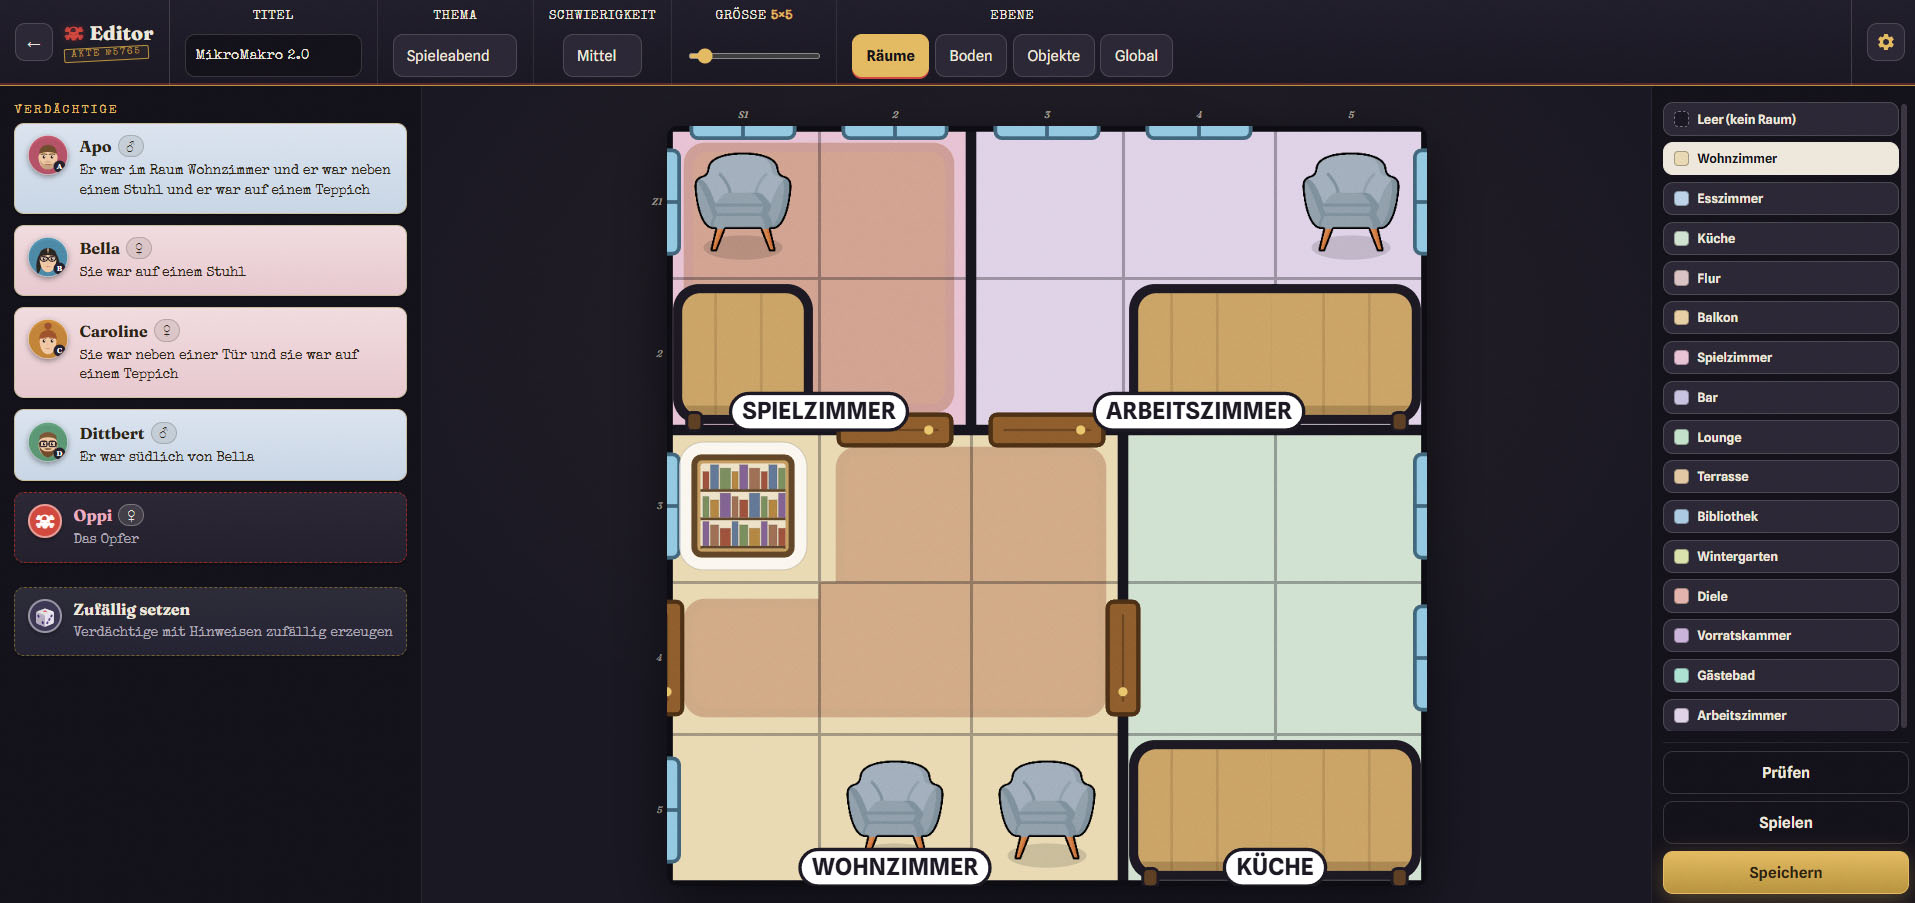
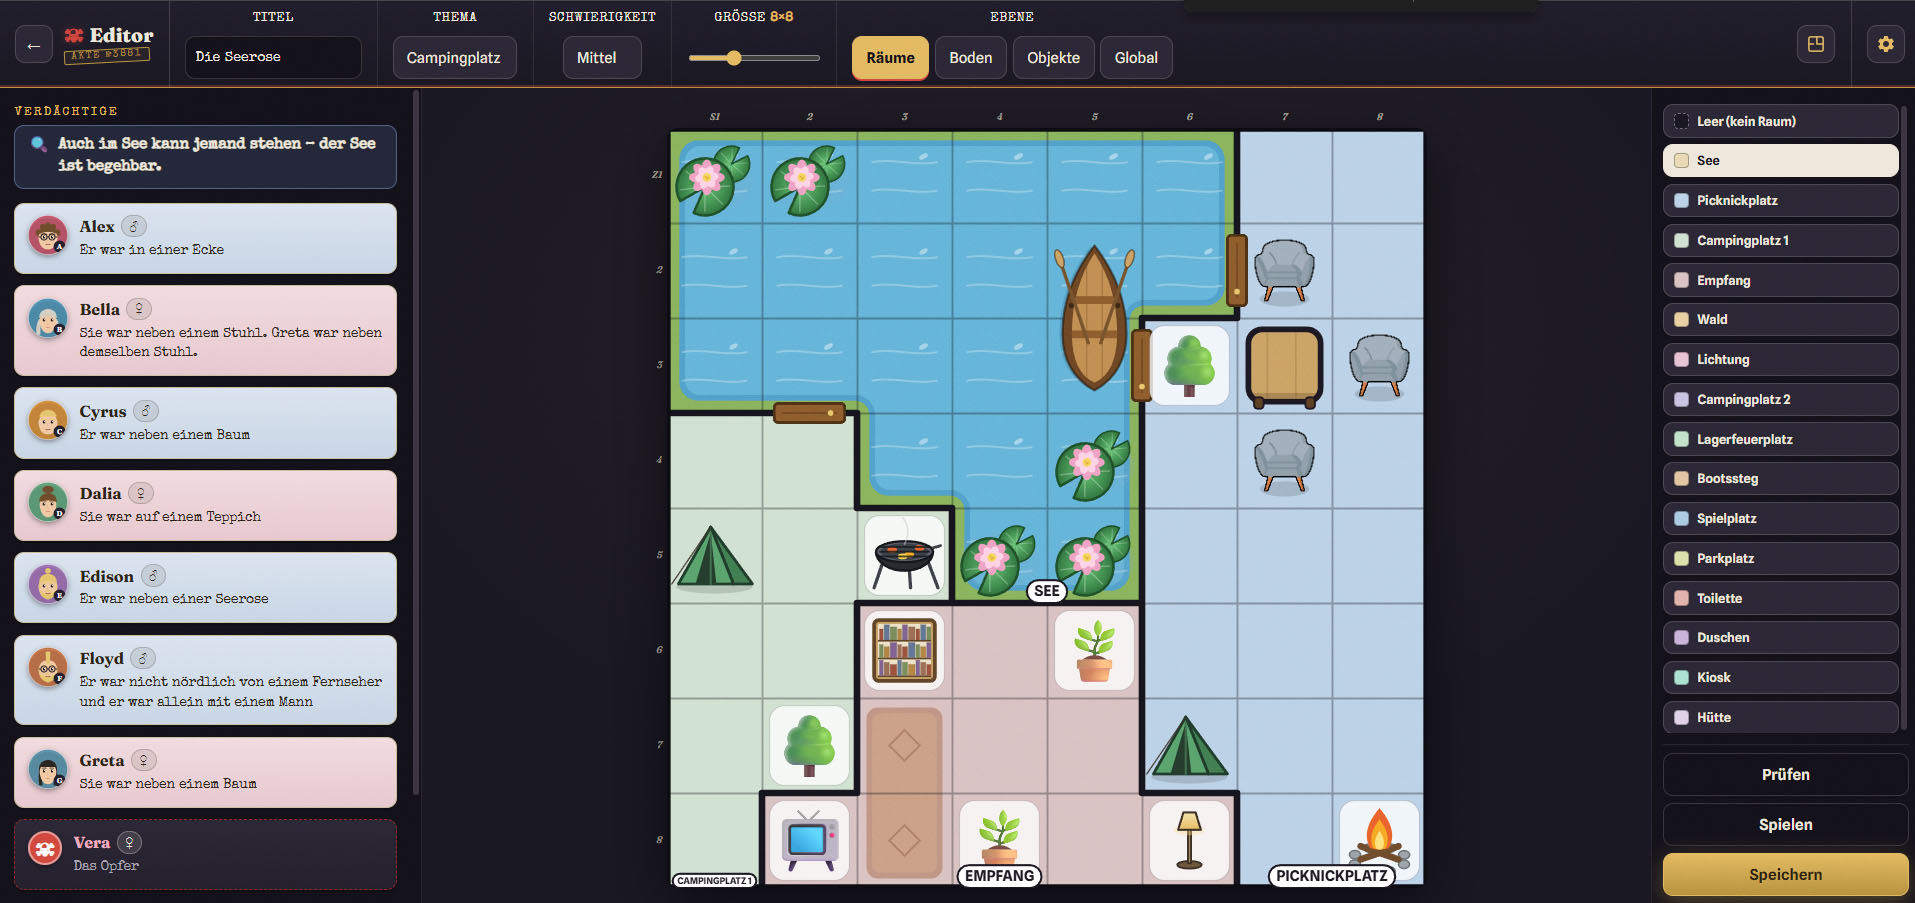
readme and new screenshots

diff --git a/src/game/objectArt.ts b/src/game/objectArt.ts
@@ -1339,12 +1339,21 @@ function lilyFlower(ctx: Ctx, cx: number, cy: number, R: number): void {
  */
 export function drawWaterlily(ctx: Ctx, x: number, y: number, S: number): void {
   ctx.lineJoin = 'round'
+  // Scale the WHOLE plant — pads (leaves), blossom and ripple — to ~80% about the tile
+  // centre, so the entire lily sits smaller and compactly centred on its tile.
+  const cx = x + S * 0.5
+  const cy = y + S * 0.5
+  ctx.save()
+  ctx.translate(cx, cy)
+  ctx.scale(0.8, 0.8)
+  ctx.translate(-cx, -cy)
   // faint ripple of open water under the pads
   ctx.fillStyle = 'rgba(120, 170, 200, 0.16)'
   ctx.beginPath()
-  ctx.ellipse(x + S * 0.5, y + S * 0.56, S * 0.42, S * 0.3, 0, 0, Math.PI * 2)
+  ctx.ellipse(x + S * 0.5, y + S * 0.54, S * 0.42, S * 0.3, 0, 0, Math.PI * 2)
   ctx.fill()
-  lilyPad(ctx, x + S * 0.68, y + S * 0.38, S * 0.19, -0.8) // small pad, upper-right
-  lilyPad(ctx, x + S * 0.4, y + S * 0.62, S * 0.3, 2.3) // large pad, lower-left
-  lilyFlower(ctx, x + S * 0.42, y + S * 0.52, S * 0.17) // blossom on the large pad
+  lilyPad(ctx, x + S * 0.66, y + S * 0.4, S * 0.19, -0.8) // small pad, upper-right
+  lilyPad(ctx, x + S * 0.42, y + S * 0.6, S * 0.3, 2.3) // large pad under the blossom
+  lilyFlower(ctx, x + S * 0.5, y + S * 0.5, S * 0.17) // blossom, centred on the large pad
+  ctx.restore()
 }

diff --git a/docs/index.html b/docs/index.html
@@ -13,7 +13,7 @@
       rel="stylesheet"
     />
     <title>Murdoku — Krimi trifft Sudoku</title>
-    <script type="module" crossorigin src="./assets/index-8z1HUEBl.js"></script>
+    <script type="module" crossorigin src="./assets/index-uu9nEwJ9.js"></script>
     <link rel="stylesheet" crossorigin href="./assets/index-CBYZE48P.css">
   </head>
   <body>

diff --git a/README.md b/README.md
@@ -2,7 +2,7 @@
 
 > *There was a murder last night. A handful of suspects, one victim, a floor plan full of clues — and only one arrangement that truly adds up. Grab your magnifying glass.*
 
-**Murdoku** is a logic mystery for the web: the rigor of Sudoku married to the suspense of a whodunit. Every suspect leaves a clue ("…was sitting on a chair", "…was in the same room as Bryson", "…was **not** beside a wall"). You combine, cross out and place — until every person stands on exactly one tile. Whoever ends up **alone with the victim** in a room is the murderer.
+**Murdoku** is a logic mystery for the web: the rigor of Sudoku married to the suspense of a whodunit. Every suspect leaves a clue — *"…was sitting on a chair", "…was in the same room as Bryson", "…was **not** beside a wall"*. You reason, cross out and place, until every person stands on exactly one tile. Whoever ends up **alone with the victim** in a room is the murderer.
 
 <p align="center">
   <img src="screenshots/murdoku_menu.jpg" width="32%" alt="Start screen: blood-lettered Murdoku title with Open Case, Tutorial, Editor and Generate" />
@@ -18,20 +18,18 @@
 
 ---
 
-## Highlights
+## Why you'll get hooked
 
-- **A guided, interactive tutorial** that teaches the rules by solving a real mini-case with you, step by step.
-- **An automatic case generator** that rolls *endless*, guaranteed-unique mysteries from 10+ themed settings in three difficulties — running in a Web Worker so the interface never stutters.
-- **A full level editor** — paint the floor plan, define suspects, build their clues, verify uniqueness, then play or save your own cases.
-- **48 hand-built bundled cases** spanning a gentle tutorial up through *hard*, on boards from 4×4 to 10×10 — and the generator adds as many more as you like.
-- **A settings desk** behind the gear: language, three assistance levels, a case stopwatch and gender-tinted suspect files.
-- **A noir "case file" look** — dark ink, brass and crimson, a typewriter testimony font, ink stamps, polaroid evidence cards and a faint film-grain over everything.
-- **Fully bilingual** (English & German), switchable at any time, with every clue written out as a natural sentence.
-- **Plays great on desktop and mobile**, with your progress saved locally.
+- 🔎 **Pure deduction, zero luck.** Every case has exactly **one** solution, provable by logic alone — no guessing, ever.
+- ♾️ **An endless supply of mysteries.** A built-in generator rolls fresh, guaranteed-unique cases across **15 themed settings** in three difficulties — you'll never run out.
+- ✍️ **Build your own.** A full editor lets you paint a crime scene, write the clues and verify it's solvable — then play it or save it.
+- 🎓 **Learn by doing.** An interactive, guided tutorial cracks a real mini-case *with* you, one step at a time.
+- 🖼️ **A crime scene with character.** Hand-drawn suspects and **40+ themed props**, dressed in a moody "case-file" look down to the film grain.
+- 📱 **Anywhere, in your language.** Plays beautifully on desktop and phone, in English or German, with your progress saved automatically.
 
 ---
 
-## Hats off to the inventor
+## A tribute to the inventor
 
 The brilliant core idea — fusing Sudoku logic with a murder case — comes from **Manuel Garand**. This project is a loving, freely-interpreted homage to his concept and is not affiliated with him.
 
@@ -47,20 +45,55 @@ The brilliant core idea — fusing Sudoku logic with a murder case — comes fro
 4. **Cross out** anything you can rule out yourself (even across furniture), until only one solution remains.
 5. **Submit.** If everyone stands correctly, the mystery unravels: who was alone with the victim?
 
-Stuck? The **hint giver** explains the next logical step in words — it never hands you the answer, just a nudge in the right direction.
+Stuck? The **hint giver** explains the next logical step in plain words — it never hands you the answer, just a nudge in the right direction.
 
 ---
 
-## What's in the file
+## The clues
 
-- **A whole clue vocabulary** — on/beside an object, beside a window, in a corner, against a wall, in a row/column, alone in the room, "the only person on a chair", "in the same room as X", compass directions, room traits ("nobody with a beard") … all combinable with **AND / OR** and individually negatable with **NOT** — and rendered as clean, grammatical sentences.
-- **Suspects with character** — hand-drawn avatars with gender, beard, glasses, baldness and hair colors. These traits aren't decoration; they're part of the logic.
-- **A lovingly drawn crime scene** — armchairs, bookshelves, beds, cars and tables that **merge seamlessly into large pieces** (rows, L-shapes, 2×2 …), just like the carpets. Windows, walls and pastel rooms included.
-- **Endless new cases** — the built-in **generator** rolls uniquely-solvable levels from 10+ themes (apartment, mansion, hotel, hospital, museum, auto shop …) in three difficulties. It runs in a **Web Worker** so the interface stays smooth.
-- **Build your own cases** — a full **level editor** (see below).
-- **Guided tutorial** — walks you through a real mini-case step by step.
-- **Bilingual** — English & German, switchable anytime.
-- **Desktop & mobile** — responsive layout, touch controls, and your progress is saved locally.
+A whole vocabulary of evidence, every piece rendered as a clean, grammatical sentence:
+
+- **on** or **beside** an object, **beside a window**, **in a corner**, **against a wall**
+- **in a row / column**, **alone in the room**, *"the only person on a chair"*
+- **in the same room as** another suspect, and **compass directions** — *"north of Dana"*
+- **room traits** — *"nobody in the room had a beard"*, *"a woman was in the room"*
+
+…all combinable with **AND / OR** and individually negatable with **NOT**.
+
+Suspects come with **traits that matter** — gender, beard, glasses, baldness and hair color. They aren't decoration; the logic leans on them, and each one has a hand-drawn avatar to match.
+
+---
+
+## The crime scene
+
+Every case is dressed by hand to feel *built*, not random:
+
+- **40+ objects** — armchairs, bookshelves, pianos, fridges, cars, beds, boats, tents, campfires, farm animals, statues and more — chosen to fit each setting. Boats and water lilies drift on the lake, cows fill the barn, fridges line the supermarket aisle, cars wait in the garage.
+- **Pieces that merge** — beds, cars and rowing boats span two tiles and join into one seamless object; carpets and open water tile together into continuous surfaces.
+- **Windows, doors, walls and soft pastel rooms**, with room names that follow the chosen theme.
+
+---
+
+## Endless cases — the generator
+
+Out of files to crack? Roll a new one. The generator builds **uniquely-solvable** mysteries on demand:
+
+- **15 themed settings** — apartment, mansion, hotel, hospital, museum, auto shop, supermarket, farm, school, restaurant, police station, campsite and more — each with fitting rooms and props.
+- **Three difficulties**, on boards from a tight **4×4** up to a sprawling **16×16**.
+- Runs in a **Web Worker**, so the interface never stutters. Keep a case you like, export it as JSON, or simply play and move on.
+
+---
+
+## Build your own crime scene (the editor)
+
+Got your own Murdoku puzzles on paper? Recreate them 1:1:
+
+- Paint **rooms, floor, objects and windows** straight onto the board (4×4 up to 16×16).
+- Create **suspects** (name, traits) and assemble their clues in the flat **clue builder**.
+- **"Check"** tells you whether the case is solvable **and unique** — and who the murderer would be.
+- **"Play"** tests it instantly; **"Save"** files it (with name & difficulty) into your archive or exports it as JSON.
+
+Room names follow the chosen theme — and can be swapped anytime.
 
 ---
 
@@ -77,36 +110,23 @@ Everything is stored locally and applies across the game, picker, generator and 
 
 ---
 
-## A crime scene with atmosphere
+## A case file with atmosphere
 
-Murdoku is dressed as a **noir case file**. Warm near-black "interrogation room" ink, brass and crimson accents, and a faint **film-grain** over the whole app. The display face is **Fraunces**, headings and testimony are typed in **Special Elite**, the body is **Spline Sans**. Cases arrive as **polaroid evidence cards** (taped into place), solved files get a slanted crimson **SOLVED** stamp, the title bleeds its letters, and the generator is laid out as a stamped, **confidential** dossier. Form, not just function.
-
----
-
-## Build your own crime scene (editor)
-
-Got your own Murdoku puzzles on paper? Recreate them 1:1:
-
-- Paint **rooms, floor, objects and windows** straight onto the board (4×4 up to 16×16).
-- Create **suspects** (name, traits) and assemble their clues in the flat **clue builder**.
-- **"Check"** tells you whether the case is solvable **and unique** — and who the murderer would be.
-- **"Play"** tests it instantly, **"Save"** files it (with name & difficulty) into your case archive or exports it as JSON.
-
-Room names follow the chosen theme — and can be swapped anytime.
+Murdoku is dressed as a **noir case file**: warm near-black "interrogation room" ink, brass and crimson accents, and a faint **film grain** over the whole app. The display face is **Fraunces**, headings and testimony are typed in **Special Elite**, the body is **Spline Sans**. Cases arrive as **polaroid evidence cards** taped into place, solved files get a slanted crimson **SOLVED** stamp, the title bleeds its letters, and the generator is laid out as a stamped, **confidential** dossier. Form, not just function.
 
 ---
 
-## The detective's tools
+## Under the hood
 
 Murdoku is built **engine-first**: the entire game logic is a pure, framework-free TypeScript engine (no React, no DOM) — testable, portable, and the single source of truth.
 
 | Area        | Tech |
 |-------------|------|
-| **Engine**  | Pure TypeScript 6 (strict): model, composable `Clue` classes, a backtracking **solver** (uniqueness oracle + answer key) and a **DeductionEngine** for explainable hints |
-| **Frontend**| React 19 + Vite 8, board rendered on **Canvas 2D** |
-| **Generator** | Runs in a **Web Worker**, guarantees unique solutions |
-| **i18n**    | i18next / react-i18next — all text from locale files |
-| **Quality** | Vitest, ESLint 10, strict `tsc` throughout |
+| **Engine**  | Pure TypeScript (strict): model, composable `Clue` classes, a backtracking **solver** (uniqueness oracle + answer key) and a **DeductionEngine** for explainable hints |
+| **Frontend**| React 19 + Vite, board rendered on **Canvas 2D** |
+| **Generator** | Builds guaranteed-unique cases across 15 themes, in a **Web Worker** |
+| **i18n**    | i18next / react-i18next — all text from locale files (EN & DE) |
+| **Quality** | Vitest, ESLint and strict `tsc` throughout |
 
 ---
 
@@ -127,19 +147,19 @@ npm run lint     # ESLint
 npm run typecheck
 ```
 
-And a few bloodhounds for the engine — small CLIs that solve, generate and analyze levels:
+And a few bloodhounds for the engine — small CLIs that solve, generate and analyze cases:
 
 ```bash
 npm run solve      # solve a case
-npm run generate   # roll new cases
+npm run generate   # roll a new case
 npm run show       # print a level in the terminal
-npm run check      # verify all levels are uniquely solvable
-npm run hardest    # find the trickiest cases
+npm run check      # verify levels are uniquely solvable
+npm run hardest    # hunt down the trickiest cases
 ```
 
 ---
 
-## Case file structure
+## Project structure
 
 ```
 src/
@@ -148,13 +168,13 @@ src/
   components/    React building blocks (board, file, toolbar, settings, editor …)
   screens/       Start · Case select · Game · Generator · Tutorial · Editor
   i18n/          English & German + the clue renderer
-levels/          Bundled cases (JSON)
+levels/          Case files (JSON)
 screenshots/     The images above
 ```
 
 ---
 
-## The detective behind the desk
+## Credits
 
 Built by **Dirk Aporius** ([@TheApo](https://github.com/TheApo)) — from the pure logic engine down to the last hand-drawn armchair.
 